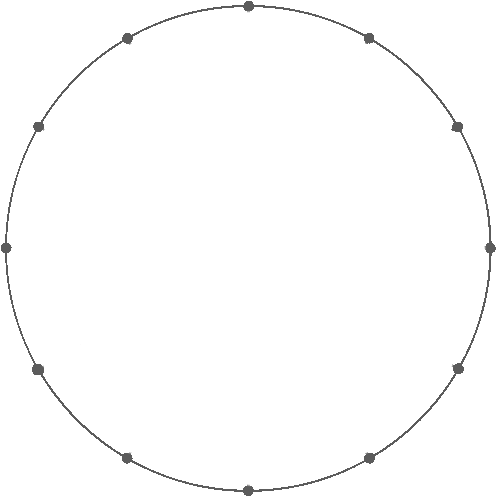
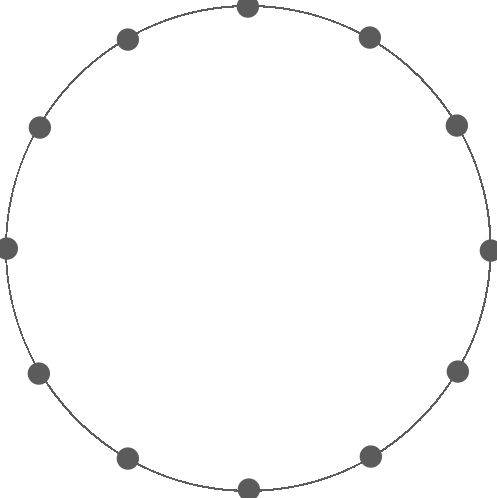
300の尺で完結するように画像を変更

diff --git a/src/app/tab1/tab1.page.ts b/src/app/tab1/tab1.page.ts
@@ -21,23 +21,23 @@ export class Tab1Page implements OnInit{
 
     // 長さ6点分
     this.ctx.beginPath();
-    this.ctx.moveTo(150,5);
-    this.ctx.lineTo(150, 295);
+    this.ctx.moveTo(150,0);
+    this.ctx.lineTo(150, 300);
     this.ctx.strokeStyle = "red" ;
     this.ctx.stroke();
     this.ctx.closePath(); 
 
     // 長さ3点分
     this.ctx.beginPath();
-    this.ctx.moveTo(150, 295);
-    this.ctx.lineTo(5, 150);
+    this.ctx.moveTo(150, 300);
+    this.ctx.lineTo(0, 150);
     this.ctx.strokeStyle = "blue" ;
     this.ctx.stroke();
 
     // 長さ3点分
     this.ctx.beginPath();
-    this.ctx.moveTo(5, 150);
-    this.ctx.lineTo(150, 5);
+    this.ctx.moveTo(0, 150);
+    this.ctx.lineTo(150, 0);
     this.ctx.strokeStyle = "blue" ;
     this.ctx.stroke();
   }

diff --git a/src/app/tab1/tab1.page.scss b/src/app/tab1/tab1.page.scss
@@ -25,7 +25,8 @@ canvas{
     padding: 10px;
     transition: box-shadow 200ms cubic-bezier(0, 0, 0.2, 1);
 
-    background-size: contain;
+    background-size: 103%;
+    background-position:center center;
     background-image: url("../../assets/img/circle.png");
   }
   
